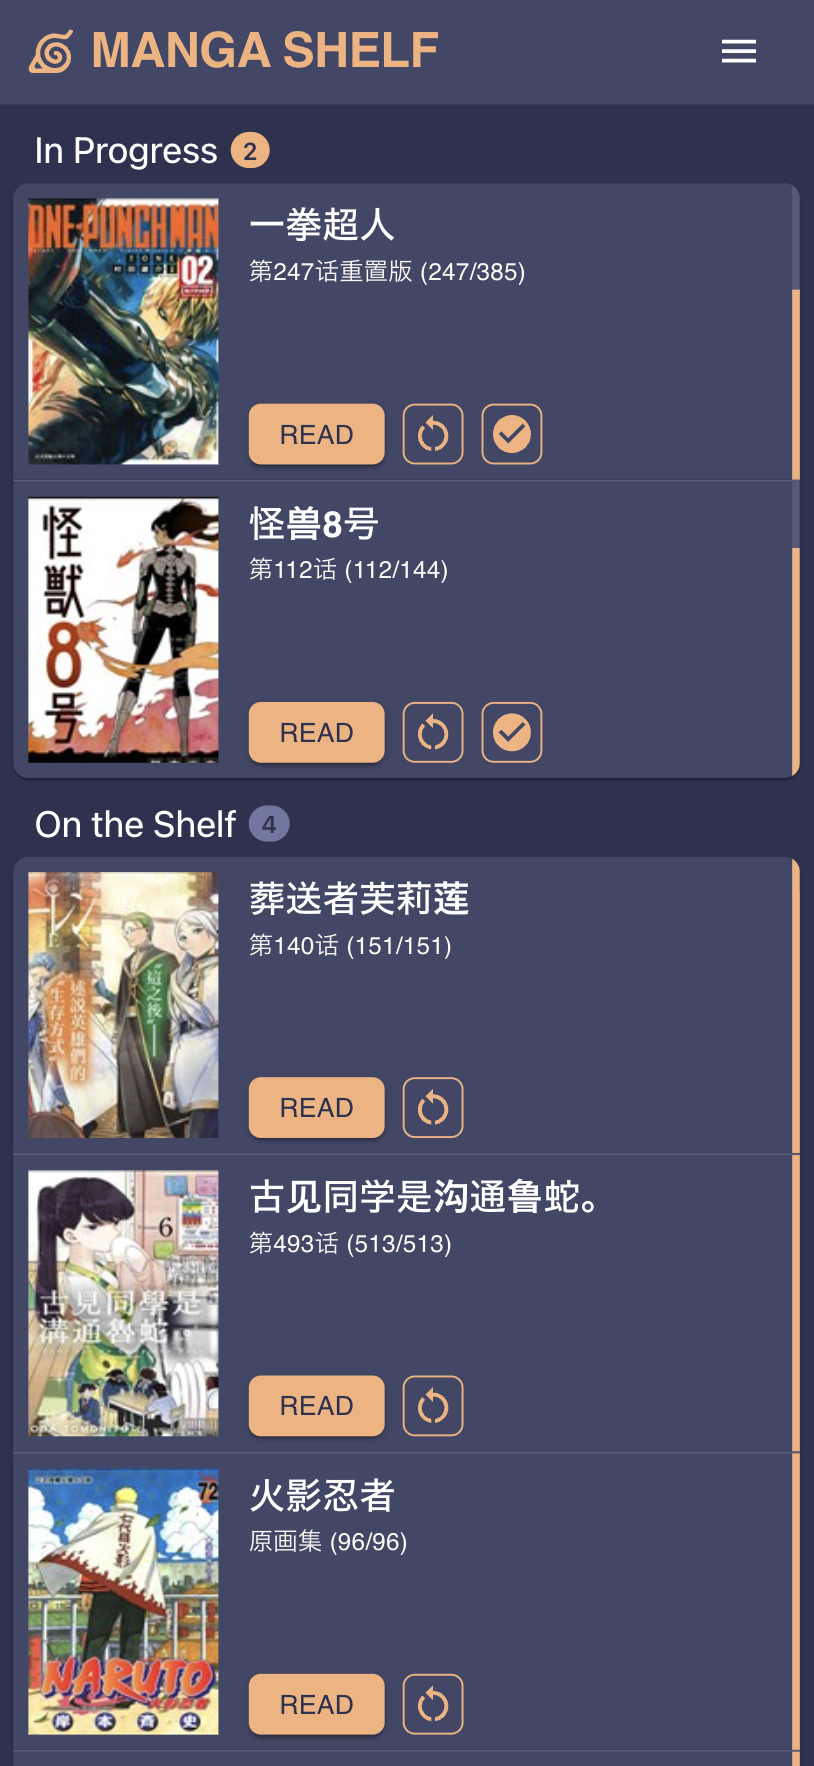
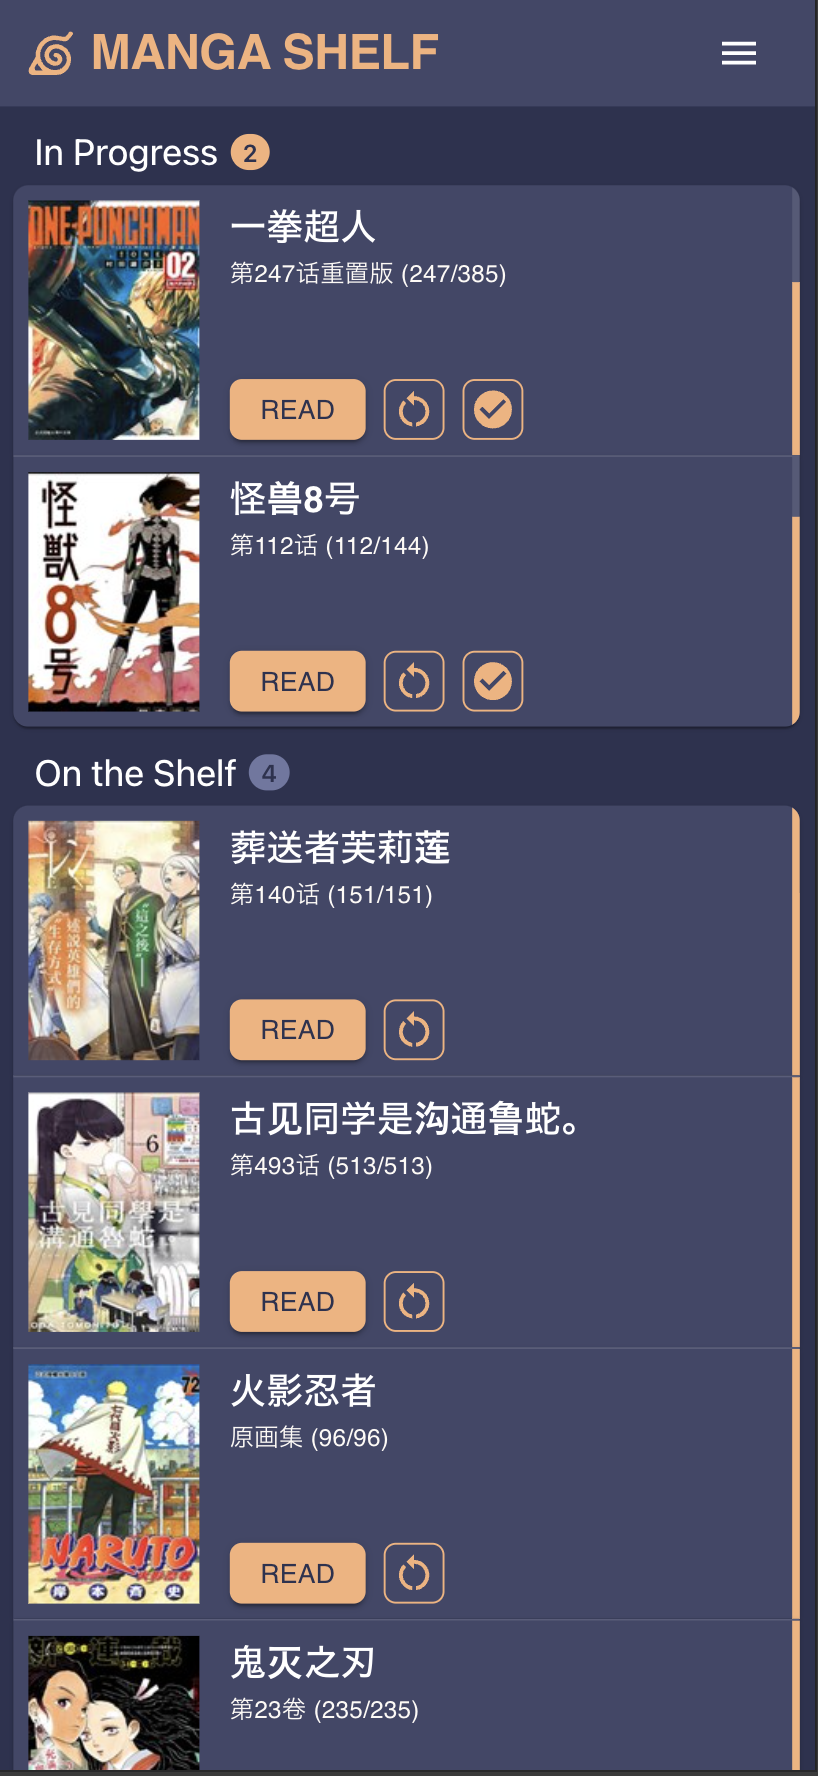
update styling

diff --git a/frontend/src/components/MangaCard.tsx b/frontend/src/components/MangaCard.tsx
@@ -101,8 +101,8 @@ function MangaCard({
           <CardMedia
             component="img"
             sx={{
-              width: 100,
-              height: 140, // Add fixed height for consistency
+              width: (100 * 9) / 10,
+              height: (140 * 9) / 10, // Add fixed height for consistency
               flexShrink: 0, // Prevent image from shrinking
               paddingLeft: "0.5rem",
             }}
@@ -116,7 +116,7 @@ function MangaCard({
             flexDirection: "column",
             flexGrow: 1, // Take up remaining width
             padding: ".5rem 1rem",
-            height: 140,
+            height: (140 * 9) / 10,
             justifyContent: "space-between",
           }}
         >
@@ -188,7 +188,7 @@ function MangaCard({
                     onClick={() => handleDelete(manga.link)}
                     className="button-delete"
                   >
-                    <Delete style={{ color: "white", margin: 0 }} />
+                    <Delete style={{ color: "#C63C51", margin: 0 }} />
                   </Button>
                 </div>
               )}

diff --git a/frontend/src/styles/mangaList.css b/frontend/src/styles/mangaList.css
@@ -42,7 +42,6 @@
 }
 
 .button-delete {
-  background-color: #C63C51 !important;
   padding: 0rem !important;
   min-width: 0 !important;
   width: 2rem !important;
